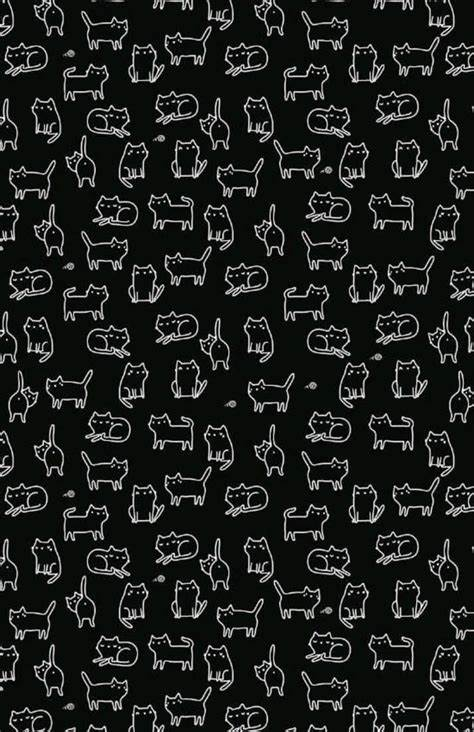
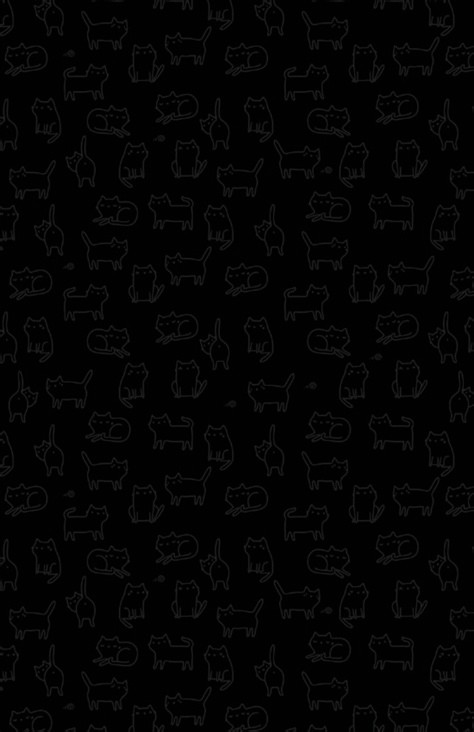
Fix background issues

Changed region(s): [[0.0, 0.0, 1.0, 1.0], [0.9451, 0.9617, 1.0, 1.0]]

diff --git a/styles.css b/styles.css
@@ -23,17 +23,18 @@ body {
   align-items: center;
   flex-direction: column;
   height: 100vh;
-  background-color: whitesmoke;
+  background-image: url(/OIP.jpg);
 }
 
 h1 {
   text-align: center;
   color: var(--black);
+  background-color: var(--grey);
   border: 2px solid var(--grey);
   padding: 10px;
   border-radius: 10px;
   margin-bottom: 40px;
-  box-shadow: 5px 5px var(--grey);
+  box-shadow: 5px 5px grey;
 }
 
 #calculator {
